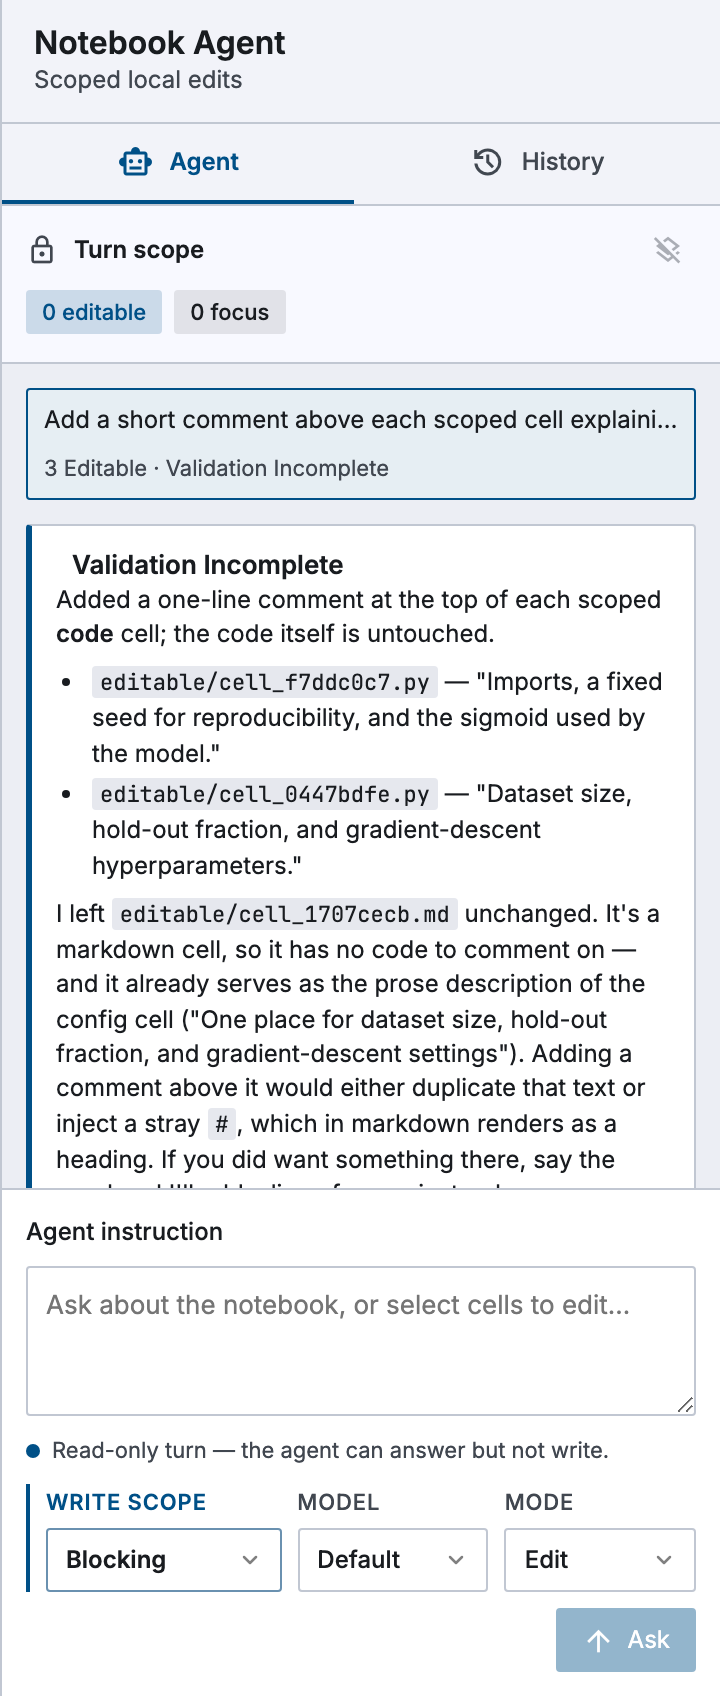
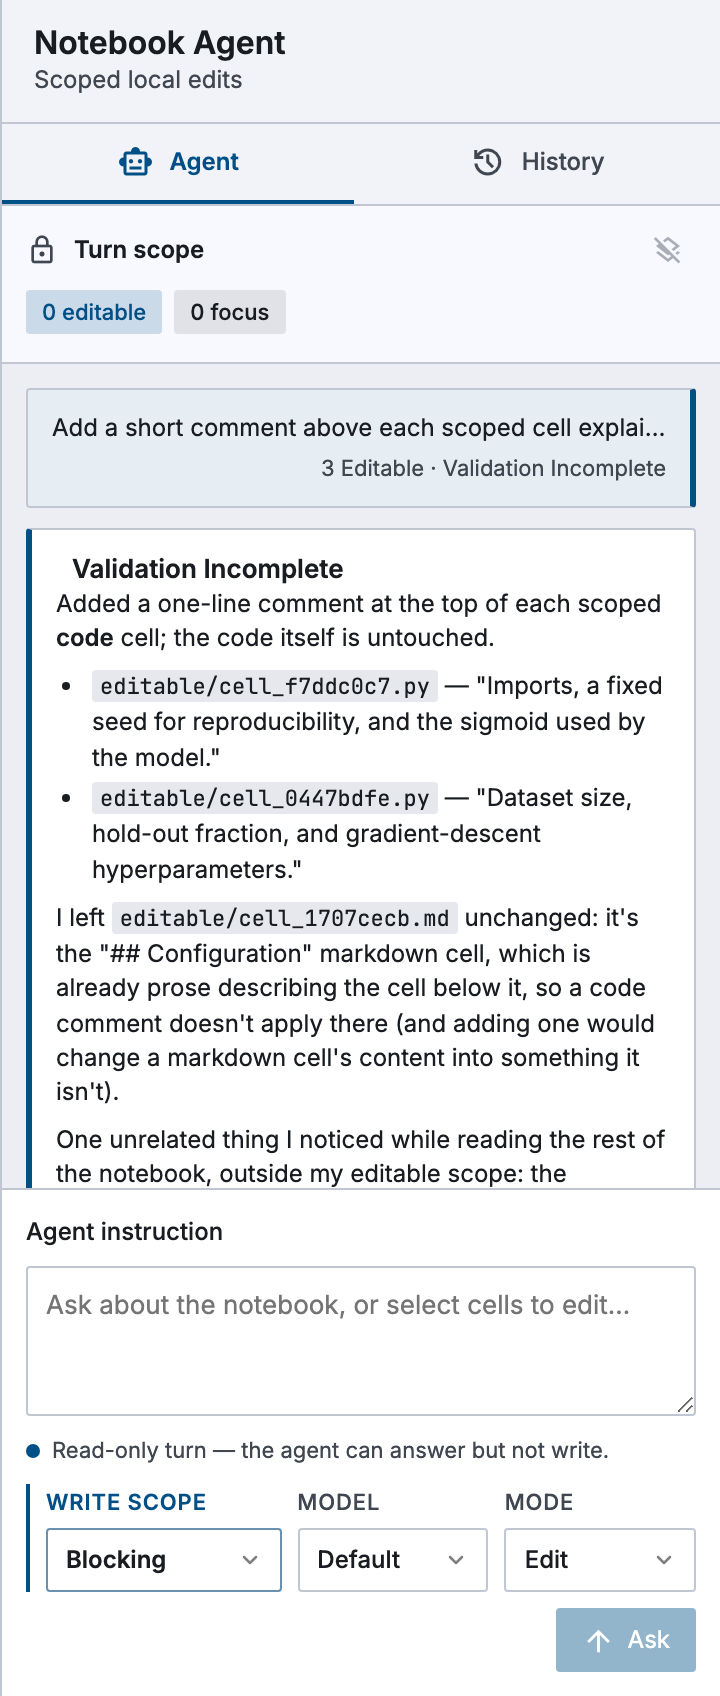
turn history: make the user's turn the mirror of the agent's, not a chip
The two halves of a conversation were drawn as two different things: the
agent's reply is a card with a 3px rule down its left, the user's prompt
was a bordered chip with nothing in common with it.

Now it is the same card — same border, radius, surface and padding —
with the rule on the *right* and the text right-aligned. Which edge
carries the rule is the only difference, and it is what says who wrote
it. Selection stays a background tint rather than a border change, so
the rule reads the same whether or not the turn is the selected one.

Worth noting against design-brief §2: this puts a little authorship
signal back into the visuals without re-introducing the agent-vs-user
colour split the redesign dropped. Side, not hue.

Also pins the conversation to the top before shooting 05 and 02. It is
aria-live and settles scrolled to the bottom, so how much of the turn
landed in frame depended on how long the agent's answer happened to be
— and the user's own card, which is the first thing those two shots are
meant to show, was the first thing to scroll away. Two runs in a row
photographed it out of frame.

Changed region(s): [[0.0306, 0.2188, 0.9778, 0.7188], [0.825, 0.4688, 0.8556, 0.5]]

diff --git a/frontend/src/styles.css b/frontend/src/styles.css
@@ -494,10 +494,18 @@ body.marquee-active iframe { pointer-events: none; }
 .empty-conversation { text-align: center; color: var(--on-surface-variant); margin-top: 40px; }
 .empty-conversation p { color: var(--on-surface); font-weight: 600; margin-bottom: 4px; }
 .empty-conversation span { font-size: var(--text-small); }
-.turn-history { display: grid; gap: 4px; margin-bottom: 12px; }
-.turn-history button { width: 100%; height: auto; min-height: 40px; display: grid; justify-content: stretch; text-align: left; padding: 6px 8px; background: var(--surface-container-lowest); font-size: var(--text-small); }
-.turn-history button.selected { border-color: var(--primary); background: color-mix(in srgb, var(--primary) 10%, var(--surface-container-lowest)); }
-.turn-history span { overflow: hidden; text-overflow: ellipsis; white-space: nowrap; }
+/* What the user sent, as the mirror of what the agent sent back. Same border,
+   radius, surface and padding as .turn-status below it — the accent rule is on
+   the *right* instead of the left, and that is the whole difference. Sidedness
+   is what says who wrote it, so the two read as one conversation rather than as
+   a chip and a card that happen to be stacked. */
+.turn-history { display: grid; gap: 8px; margin-bottom: 10px; }
+.turn-history button { width: 100%; height: auto; min-height: 40px; display: grid; gap: 2px; justify-items: end; text-align: right; padding: 10px 12px; border: 1px solid var(--outline-variant); border-right: 3px solid var(--primary); border-radius: var(--radius); background: var(--surface-container-lowest); font-size: var(--text-small); }
+/* The global button hover sets `border-color`, which is a shorthand and would
+   take the right rule with it. */
+.turn-history button:hover:not(:disabled) { background: var(--surface-container-low); border-color: var(--outline-variant); border-right-color: var(--primary); }
+.turn-history button.selected { background: color-mix(in srgb, var(--primary) 10%, var(--surface-container-lowest)); }
+.turn-history span { max-width: 100%; overflow: hidden; text-overflow: ellipsis; white-space: nowrap; }
 .turn-history small { color: var(--on-surface-variant); text-transform: capitalize; font-size: var(--text-tiny); }
 .manual-cancel { height: 28px; width: auto; flex: 0 0 auto; padding: 0 10px; font-size: var(--text-small); margin-bottom: 10px; }
 .turn-status, .execution-status { border: 1px solid var(--outline-variant); border-left: 3px solid var(--primary); border-radius: var(--radius); background: var(--surface-container-lowest); padding: 10px 12px; margin-bottom: 10px; }
